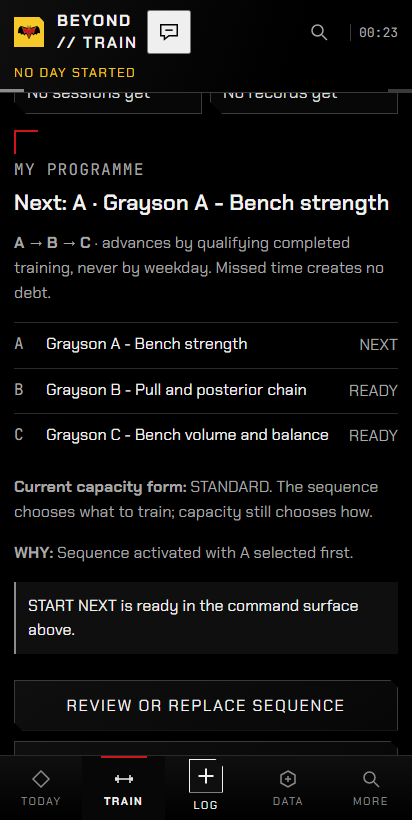
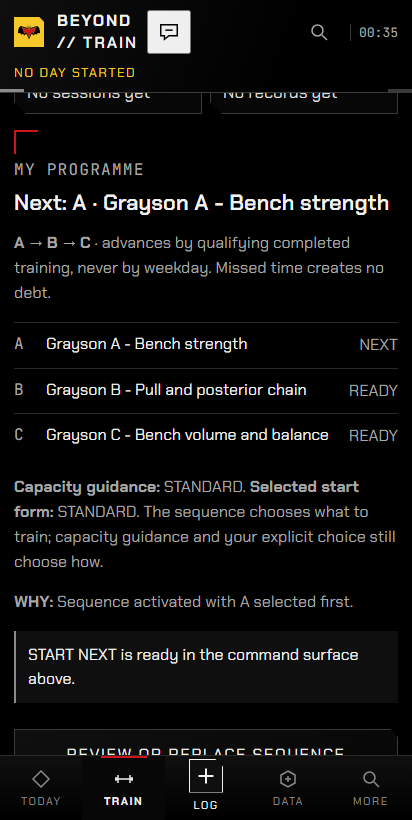
fix(train): preserve sequence authority and confirmation

Changed region(s): [[0.0291, 0.5793, 0.9612, 0.9451], [0.2913, 0.7927, 0.8738, 0.8232], [0.932, 0.0305, 0.9612, 0.061]]

diff --git a/src/ui/screens/train/TrainingProgrammePanel.tsx b/src/ui/screens/train/TrainingProgrammePanel.tsx
@@ -10,11 +10,15 @@ import "../../components/section.css";
 const WEEKDAYS: Record<string, string> = { "1": "Monday", "2": "Tuesday", "3": "Wednesday", "4": "Thursday", "5": "Friday", "6": "Saturday", "0": "Sunday" };
 const slotLabel = (slot: string) => WEEKDAYS[slot] ?? slot.replace("WORK", "Work day ").replace("OFF", "Day off ");
 const emptyAssigned = (): AssignedTrainingProgramme => ({ mode: "ROTATION", slots: {} });
+const describeRestoration = (programme: TrainingProgramme) => programme.mode === "SEQUENCE"
+  ? `Restore its A → B → C sequence beginning from the preserved next member ${programme.members.find((member) => member.templateId === programme.startTemplateId)?.key ?? "unknown"}.`
+  : `Restore the prior ${programme.mode === "WEEKDAYS" ? "weekday" : "work/day-off"} assignments.`;
 
-export function TrainingProgrammePanel({ onStart, onProgrammeChanged, capacityForm, disabled = false, startDisabled = false, active = true, refreshKey = 0, now }: {
+export function TrainingProgrammePanel({ onStart, onProgrammeChanged, capacityForm, selectedForm, disabled = false, startDisabled = false, active = true, refreshKey = 0, now }: {
   onStart: (templateId: string, capacityForm?: SessionType) => void;
   onProgrammeChanged?: () => void;
   capacityForm: SessionType;
+  selectedForm: SessionType;
   disabled?: boolean;
   startDisabled?: boolean;
   active?: boolean;
@@ -31,6 +35,7 @@ export function TrainingProgrammePanel({ onStart, onProgrammeChanged, capacityFo
   const [startId, setStartId] = useState("");
   const [busy, setBusy] = useState(false);
   const [receipt, setReceipt] = useState<string | null>(null);
+  const [pendingAction, setPendingAction] = useState<"UNDO" | "DEACTIVATE" | null>(null);
   const saving = useRef(false);
   const editingVersion = useRef<string | null>(null);
   const boundaryKey = mostRecentBoundaryAtOrBefore(now ?? new Date()).getTime();
@@ -57,6 +62,7 @@ export function TrainingProgrammePanel({ onStart, onProgrammeChanged, capacityFo
       setData(null);
       setEditing(false);
       setActivating(false);
+      setPendingAction(null);
       setReceipt(success);
       setKey((value) => value + 1);
       onProgrammeChanged?.();
@@ -108,14 +114,23 @@ export function TrainingProgrammePanel({ onStart, onProgrammeChanged, capacityFo
         <ol className="train-prescription train-prescription--preview" aria-label="Active programme sequence">
           {sequence.members.map((member) => <li key={member.key}><span className="train-prescription-index">{member.key}</span><span>{member.name}</span><span className="meta">{member.issue ? member.issue.toLowerCase() : member.templateId === sequence.nextMember?.templateId ? "NEXT" : "READY"}</span></li>)}
         </ol>
-        <p className="meta"><b>Current capacity form:</b> {capacityForm}. The sequence chooses what to train; capacity still chooses how.</p>
+        <p className="meta"><b>Capacity guidance:</b> {capacityForm}. <b>Selected start form:</b> {selectedForm}. The sequence chooses what to train; capacity guidance and your explicit choice still choose how.</p>
         <p className="meta"><b>WHY:</b> {sequence.why}</p>
         {sequence.status === "READY" && sequence.nextMember
           ? <p role="status">START NEXT is ready in the command surface above.</p>
           : <p role="status">Guided start is paused. Review the sequence before GRAYSON names a next workout. Direct workout choice remains available above.</p>}
         <button type="button" className="btn-secondary" disabled={disabled || busy} onClick={beginActivation}>REVIEW OR REPLACE SEQUENCE</button>
-        <button type="button" className="btn-secondary" disabled={disabled || busy} onClick={() => { editingVersion.current = data.revision.id; void save(sequence.previousProgramme, sequence.previousProgramme ? "Activation undone. Your prior programme was restored." : "Activation undone. No prior programme was set."); }}>UNDO ACTIVATION</button>
-        <button type="button" className="btn-secondary" disabled={disabled || busy} onClick={() => { editingVersion.current = data.revision.id; void save(null, "Programme deactivated. Past workouts are unchanged."); }}>DEACTIVATE</button>
+        <button type="button" className="btn-secondary" disabled={disabled || busy} onClick={() => { editingVersion.current = data.revision.id; setPendingAction("UNDO"); }}>UNDO ACTIVATION</button>
+        <button type="button" className="btn-secondary" disabled={disabled || busy} onClick={() => { editingVersion.current = data.revision.id; setPendingAction("DEACTIVATE"); }}>DEACTIVATE</button>
+        {pendingAction && <div className="quiet-fact" role="group" aria-label={pendingAction === "UNDO" ? "Confirm activation undo" : "Confirm programme deactivation"}>
+          <h3>{pendingAction === "UNDO" ? "Restore the programme from before this activation?" : "Deactivate this programme?"}</h3>
+          {pendingAction === "UNDO" ? sequence.previousProgramme
+            ? <p>{describeRestoration(sequence.previousProgramme)} Current sequence history remains recorded.</p>
+            : <p>No restorable prior programme is available. Confirming leaves no active programme; workout history remains recorded.</p>
+            : <p>The A → B → C sequence will stop guiding START NEXT. Saved templates and workout history remain unchanged.</p>}
+          <button type="button" className="btn-primary" onClick={() => void save(pendingAction === "UNDO" ? sequence.previousProgramme : null, pendingAction === "UNDO" ? sequence.previousProgramme ? "Activation undone. Your prior programme was restored." : "Activation undone. No prior programme was set." : "Programme deactivated. Past workouts are unchanged.")}>{pendingAction === "UNDO" ? "CONFIRM RESTORE" : "CONFIRM DEACTIVATE"}</button>
+          <button type="button" className="btn-secondary" onClick={() => setPendingAction(null)}>CANCEL</button>
+        </div>}
       </> : data.revision.programme ? <>
         <p className="meta">Planned today: {!data.rotationAvailable && data.revision.programme.mode === "ROTATION" ? "Schedule not saved" : plannedTemplate?.name ?? (data.planned.templateId ? "Template no longer available" : "No assigned session")}{data.revision.programme.mode === "ROTATION" && data.rotationAvailable && data.forecast ? " · schedule forecast" : ""}</p>
         {!data.rotationAvailable && data.revision.programme.mode === "ROTATION" && <p className="meta">Save a work schedule to resolve rotation slots.</p>}

diff --git a/src/application/trainingProgrammeQueries.ts b/src/application/trainingProgrammeQueries.ts
@@ -41,30 +41,30 @@ function completionPayload(value: unknown): { sessionId: string; status: "COMPLE
   return { sessionId: payload.sessionId, status: payload.status, sessionType: payload.sessionType };
 }
 
-async function getSequenceView(revision: ProgrammeRevision, history: ProgrammeRevision[], allTemplates: CustomWorkoutTemplate[]): Promise<SequenceProgrammeView> {
+async function deriveSequenceState(revision: ProgrammeRevision, allTemplates: CustomWorkoutTemplate[], endSeq = Number.MAX_SAFE_INTEGER): Promise<Omit<SequenceProgrammeView, "previousProgramme">> {
   const programme = revision.programme as SequenceTrainingProgramme;
   const members = programme.members.map((member): SequenceMemberView => {
     const current = allTemplates.find((template) => template.id === member.templateId);
     const issue = !current ? "MISSING" : current.archivedAt ? "ARCHIVED" : !sameSnapshot(current, member.snapshot) ? "CHANGED" : null;
     return { key: member.key, templateId: member.templateId, name: current?.name ?? member.snapshot.name, issue };
   });
-  const previousProgramme = history.length > 1 ? history.at(-2)!.programme : null;
   const start = members.find((member) => member.templateId === programme.startTemplateId) ?? null;
-  if (!start || revision.seq === undefined || !revision.recordedAt) return { status: "UNKNOWN", members, nextMember: start, why: "Programme activation evidence is incomplete. Nothing was inferred.", previousProgramme, activatedAt: revision.recordedAt ?? null };
+  if (!start || revision.seq === undefined || !revision.recordedAt) return { status: "UNKNOWN", members, nextMember: start, why: "Programme activation evidence is incomplete. Nothing was inferred.", activatedAt: revision.recordedAt ?? null };
 
   let next = start;
   let why = `Sequence activated with ${start.key} selected first.`;
   const completions = (await db.events.where("type").equals("WORKOUT_COMPLETED").toArray()).sort((a, b) => (a.seq ?? Number.MAX_SAFE_INTEGER) - (b.seq ?? Number.MAX_SAFE_INTEGER));
   for (const event of completions) {
     if (event.seq === undefined) {
-      if (event.recordedAt >= revision.recordedAt) return { status: "UNKNOWN", members, nextMember: null, why: "A workout outcome has no causal order. Next session is unknown.", previousProgramme, activatedAt: revision.recordedAt };
+      if (event.recordedAt >= revision.recordedAt) return { status: "UNKNOWN", members, nextMember: null, why: "A workout outcome has no causal order. Next session is unknown.", activatedAt: revision.recordedAt };
       continue;
     }
     if (event.seq <= revision.seq) continue;
+    if (event.seq >= endSeq) continue;
     const payload = completionPayload(event.payload);
-    if (!payload) return { status: "UNKNOWN", members, nextMember: null, why: "A workout outcome is incomplete. Next session is unknown.", previousProgramme, activatedAt: revision.recordedAt };
+    if (!payload) return { status: "UNKNOWN", members, nextMember: null, why: "A workout outcome is incomplete. Next session is unknown.", activatedAt: revision.recordedAt };
     const session = await db.workoutSessions.get(payload.sessionId);
-    if (!session || session.sessionType !== payload.sessionType || session.status !== payload.status) return { status: "UNKNOWN", members, nextMember: null, why: "Workout records disagree. Next session is unknown.", previousProgramme, activatedAt: revision.recordedAt };
+    if (!session || session.sessionType !== payload.sessionType || session.status !== payload.status) return { status: "UNKNOWN", members, nextMember: null, why: "Workout records disagree. Next session is unknown.", activatedAt: revision.recordedAt };
     const memberIndex = members.findIndex((member) => member.templateId === session.templateId);
     if (memberIndex < 0) continue;
     const sets = await getPerformedSets(session.id);
@@ -75,7 +75,21 @@ async function getSequenceView(revision: ProgrammeRevision, history: ProgrammeRe
     }
   }
   const status = members.some((member) => member.issue) ? "REVIEW_REQUIRED" : "READY";
-  return { status, members, nextMember: next, why, previousProgramme, activatedAt: revision.recordedAt };
+  return { status, members, nextMember: next, why, activatedAt: revision.recordedAt };
+}
+
+async function getSequenceView(revision: ProgrammeRevision, history: ProgrammeRevision[], allTemplates: CustomWorkoutTemplate[]): Promise<SequenceProgrammeView> {
+  const state = await deriveSequenceState(revision, allTemplates);
+  const index = history.findIndex((entry) => entry.id === revision.id);
+  const previous = index > 0 ? history[index - 1]! : null;
+  let previousProgramme = previous?.programme ?? null;
+  if (previous?.programme?.mode === "SEQUENCE" && revision.seq !== undefined) {
+    const previousState = await deriveSequenceState(previous, allTemplates, revision.seq);
+    previousProgramme = previousState.status !== "UNKNOWN" && previousState.nextMember
+      ? { ...previous.programme, startTemplateId: previousState.nextMember.templateId }
+      : null;
+  }
+  return { ...state, previousProgramme };
 }
 
 export function buildSequenceProgramme(templateIds: [string, string, string], templates: readonly CustomWorkoutTemplate[], startTemplateId = templateIds[0]): SequenceTrainingProgramme {

diff --git a/src/ui/screens/train/TrainScreen.tsx b/src/ui/screens/train/TrainScreen.tsx
@@ -201,6 +201,7 @@ export function TrainScreen({
   const [lastAdvancingTemplate, setLastAdvancingTemplate] = useState<WorkoutTemplateId | null>(null);
   const [chosenTemplate, setChosenTemplate] = useState<WorkoutTemplateId>("A");
   const [chosenVariant, setChosenVariant] = useState<SessionType>("STANDARD");
+  const [capacityForm, setCapacityForm] = useState<SessionType>("STANDARD");
   // DECLUTTER-001: the template/variant override chips sit behind one
   // CHANGE tap so START WORKOUT stays on the first screen. Opens itself for
   // the TODAY → RECOVERY handoff, whose focus target is the RECOVERY chip.
@@ -418,6 +419,7 @@ export function TrainScreen({
 
     const suggestion = suggestSessionVariant(cap, sleepShort);
     setNoCheckIn(suggestion.noCheckIn);
+    setCapacityForm(suggestion.variant === "RESET" ? "STANDARD" : suggestion.variant);
 
     const programmeView = await getProgrammeView();
     setSequenceProgramme(programmeView.sequence);
@@ -1366,8 +1368,10 @@ export function TrainScreen({
               <p className="card-body" style={{ marginBottom: 6 }}>{describeVariantSuggestion(variantSuggestion)}</p>
               {chosenVariant !== "RECOVERY" && (
                 <p className="card-body" style={{ marginBottom: 6 }}>
-                  {sequenceProgramme?.status === "READY" && sequenceProgramme.nextMember && chosenTemplate === sequenceProgramme.nextMember.templateId
-                    ? sequenceProgramme.why
+                  {sequenceProgramme?.status === "READY" && sequenceProgramme.nextMember
+                    ? chosenTemplate === sequenceProgramme.nextMember.templateId
+                      ? sequenceProgramme.why
+                      : `You chose ${templateLabel(chosenTemplate, customTemplates)} directly. The active sequence still names ${sequenceProgramme.nextMember.key} · ${sequenceProgramme.nextMember.name} next unless this session records a qualifying completion; an out-of-order sequence member advances from the member actually completed.`
                     : describeTemplateSuggestion(suggestedTemplate, lastAdvancingTemplate)}
                 </p>
               )}
@@ -1416,7 +1420,7 @@ export function TrainScreen({
         );
       })()}
 
-      <TrainingProgrammePanel active={active && trainView === "WORKOUT"} refreshKey={programmeRefreshKey} disabled={busy} startDisabled={!!session} capacityForm={chosenVariant} onProgrammeChanged={() => void refresh(true)} onStart={(templateId, requestedForm) => {
+      <TrainingProgrammePanel active={active && trainView === "WORKOUT"} refreshKey={programmeRefreshKey} disabled={busy} startDisabled={!!session} capacityForm={capacityForm} selectedForm={chosenVariant} onProgrammeChanged={() => void refresh(true)} onStart={(templateId, requestedForm) => {
         const requested = requestedForm ?? chosenVariant;
         const variant = requestedForm ? requested : requested === "RECOVERY" ? "STANDARD" : requested;
         templateChosenRef.current = true; variantChosenRef.current = true;

diff --git a/tests/browser/TrainingProgramme.test.tsx b/tests/browser/TrainingProgramme.test.tsx
@@ -74,8 +74,21 @@ it("reviews and activates three saved workouts, shows evidence, and starts the n
   expect(saved?.mode === "SEQUENCE" ? saved.members.map((member) => member.templateId) : []).toEqual(templates.map((template) => template.id));
   const panel = screen.getByRole("region", { name: "My programme", exact: true });
   expect((await axe.run(panel.element())).violations).toEqual([]);
+  await screen.getByRole("button", { name: "CHANGE", exact: true }).click();
+  await screen.getByRole("button", { name: "Grayson B", exact: true }).click();
+  await screen.getByText("Why this suggestion", { exact: true }).click();
+  await expect.element(screen.getByText(/You chose Grayson B directly/)).toBeVisible();
+  await screen.getByRole("button", { name: "REDUCED", exact: true }).click();
+  await expect.element(screen.getByText(/Capacity guidance:\s*STANDARD\.\s*Selected start form:\s*REDUCED/)).toBeVisible();
+  await screen.getByRole("button", { name: "Grayson A", exact: true }).click();
+  await screen.getByRole("button", { name: "STANDARD", exact: true }).click();
   await screen.getByRole("button", { name: "START NEXT · A", exact: true }).click();
   await expect.poll(() => db.workoutSessions.count()).toBe(1);
   expect((await db.workoutSessions.toArray())[0]!.templateId).toBe(templates[0]!.id);
+  await screen.getByRole("button", { name: "UNDO ACTIVATION", exact: true }).click();
+  await expect.element(screen.getByRole("group", { name: "Confirm activation undo", exact: true })).toBeVisible();
+  expect((await getTrainingProgramme()).programme?.mode).toBe("SEQUENCE");
+  await screen.getByRole("button", { name: "CONFIRM RESTORE", exact: true }).click();
+  await expect.poll(async () => (await getTrainingProgramme()).programme).toBeNull();
   expect(document.documentElement.scrollWidth).toBeLessThanOrEqual(360);
 });

diff --git a/tests/ui/trainingProgramme.test.ts b/tests/ui/trainingProgramme.test.ts
@@ -172,3 +172,24 @@ it("round-trips a sequence and its snapshots through the existing backup contrac
   expect(restored.sequence?.status).toBe("READY");
   expect(restored.sequence?.members.map((member) => member.name)).toEqual(["Foundation A", "Foundation B", "Foundation C"]);
 });
+
+it("restores a prior sequence from its earned next member rather than its original start", async () => {
+  const templates = await threeCustomTemplates();
+  const first = buildSequenceProgramme([templates[0]!.id, templates[1]!.id, templates[2]!.id], templates);
+  const firstRevision = await saveTrainingProgramme(first, null);
+  const day = await startDay();
+  const workout = await startWorkout(day.id, templates[0]!.id, "STANDARD", { overrideConfirmed: true });
+  await logSet(day.id, workout.id, templates[0]!.exercises[0]!.exerciseId, 1, 100, 8);
+  await completeWorkout(day.id, workout.id, "STANDARD", "COMPLETED");
+  expect((await getProgrammeView()).sequence?.nextMember?.key).toBe("B");
+
+  const replacement = buildSequenceProgramme([templates[2]!.id, templates[0]!.id, templates[1]!.id], templates);
+  const replacementRevision = await saveTrainingProgramme(replacement, firstRevision.id);
+  const replacementView = await getProgrammeView();
+  expect(replacementView.sequence?.previousProgramme?.mode).toBe("SEQUENCE");
+  expect(replacementView.sequence?.previousProgramme?.mode === "SEQUENCE" ? replacementView.sequence.previousProgramme.startTemplateId : null).toBe(templates[1]!.id);
+
+  await saveTrainingProgramme(replacementView.sequence!.previousProgramme, replacementRevision.id);
+  const restored = await getProgrammeView();
+  expect(restored.sequence?.nextMember?.templateId).toBe(templates[1]!.id);
+});

diff --git a/tests/browser/TrainHome.test.tsx b/tests/browser/TrainHome.test.tsx
@@ -89,7 +89,7 @@ describe("TRAIN-HOME-001", () => {
     await screen.getByRole("button", { name: "MINIMUM" }).click();
     await screen.getByRole("button", { name: "CONTINUE" }).click();
     await expect.element(screen.getByText(/Nothing has been activated/i)).toBeVisible();
-    await screen.getByRole("button", { name: "RETURN TO TRAIN" }).click();
+    await screen.getByRole("button", { name: "CLOSE", exact: true }).click();
     await expect.element(trigger).toHaveFocus();
     expect(await db.events.count()).toBe(beforeEvents);
     expect(await db.workoutSessions.count()).toBe(beforeSessions);

diff --git a/docs/agent/CURRENT_CHECKPOINT.md b/docs/agent/CURRENT_CHECKPOINT.md
@@ -17,11 +17,18 @@
   existing authority. Weekday and WORK/OFF programmes, direct workout choice, progression, history
   and native backup remain compatible; no cursor, table or schema was added.
 - **Verification:** typecheck, architecture and production/PWA build pass. Focused programme Node
-  tests pass 12/12, including sequence advancement/holds, out-of-order completion, abstention,
-  stale writes, restoration and backup. Affected plan/sequence Chromium passes 7/7. Built-PWA
+  tests pass 13/13, including sequence advancement/holds, out-of-order completion, abstention,
+  stale writes, position-preserving restoration and backup. Affected TRAIN plan/sequence Chromium
+  passes 10/10. Built-PWA
   review/confirmation/active evidence at 320/360/412 px has no overflow or page errors in
   [`docs/screenshots/grayson-train-sequence-activate-001/`](../screenshots/grayson-train-sequence-activate-001/).
   Required CI and independent exact-head review remain pending; no physical-phone check yet.
+- **Review history:** independent review BLOCKED prior head `04bb3858` on false WHY copy for direct
+  choices, missing undo/deactivation confirmation, prior-sequence position loss on restoration and
+  conflated capacity/manual-form labeling. The candidate now repairs all four and adds focused proof.
+  The earlier CI shard's sole failure was a stale plan-draft test looking for the pre-#610 exit label;
+  it now closes through the visible CLOSE control and passes locally. Renewed exact-head review and
+  clean CI are required.
 - **Concurrent work:** root research changes remain untouched.
 - **Next:** finish diff/risk checks, open the PR, obtain green required CI and independent exact-head
   review, then return for Gavin's merge approval.
